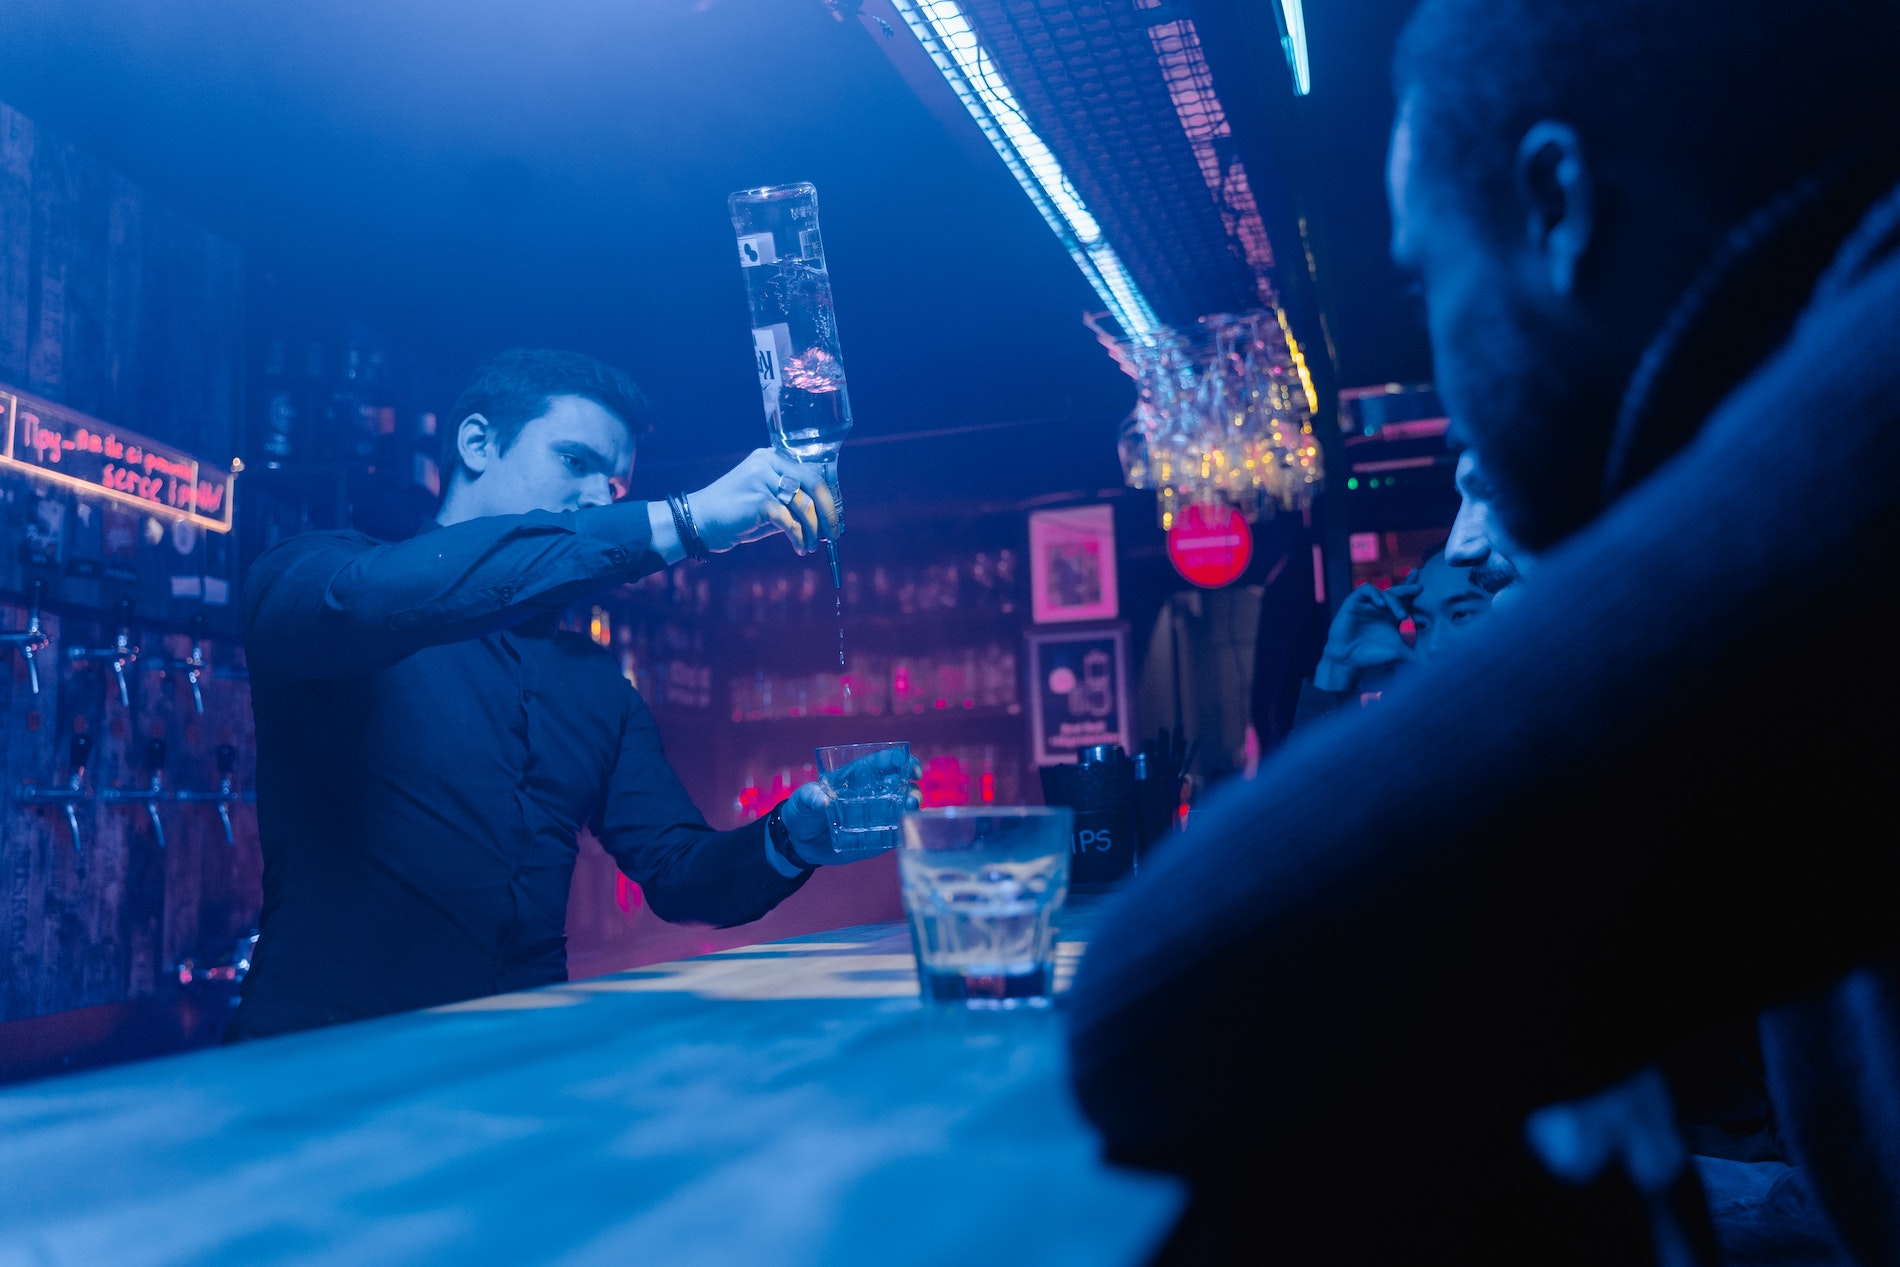
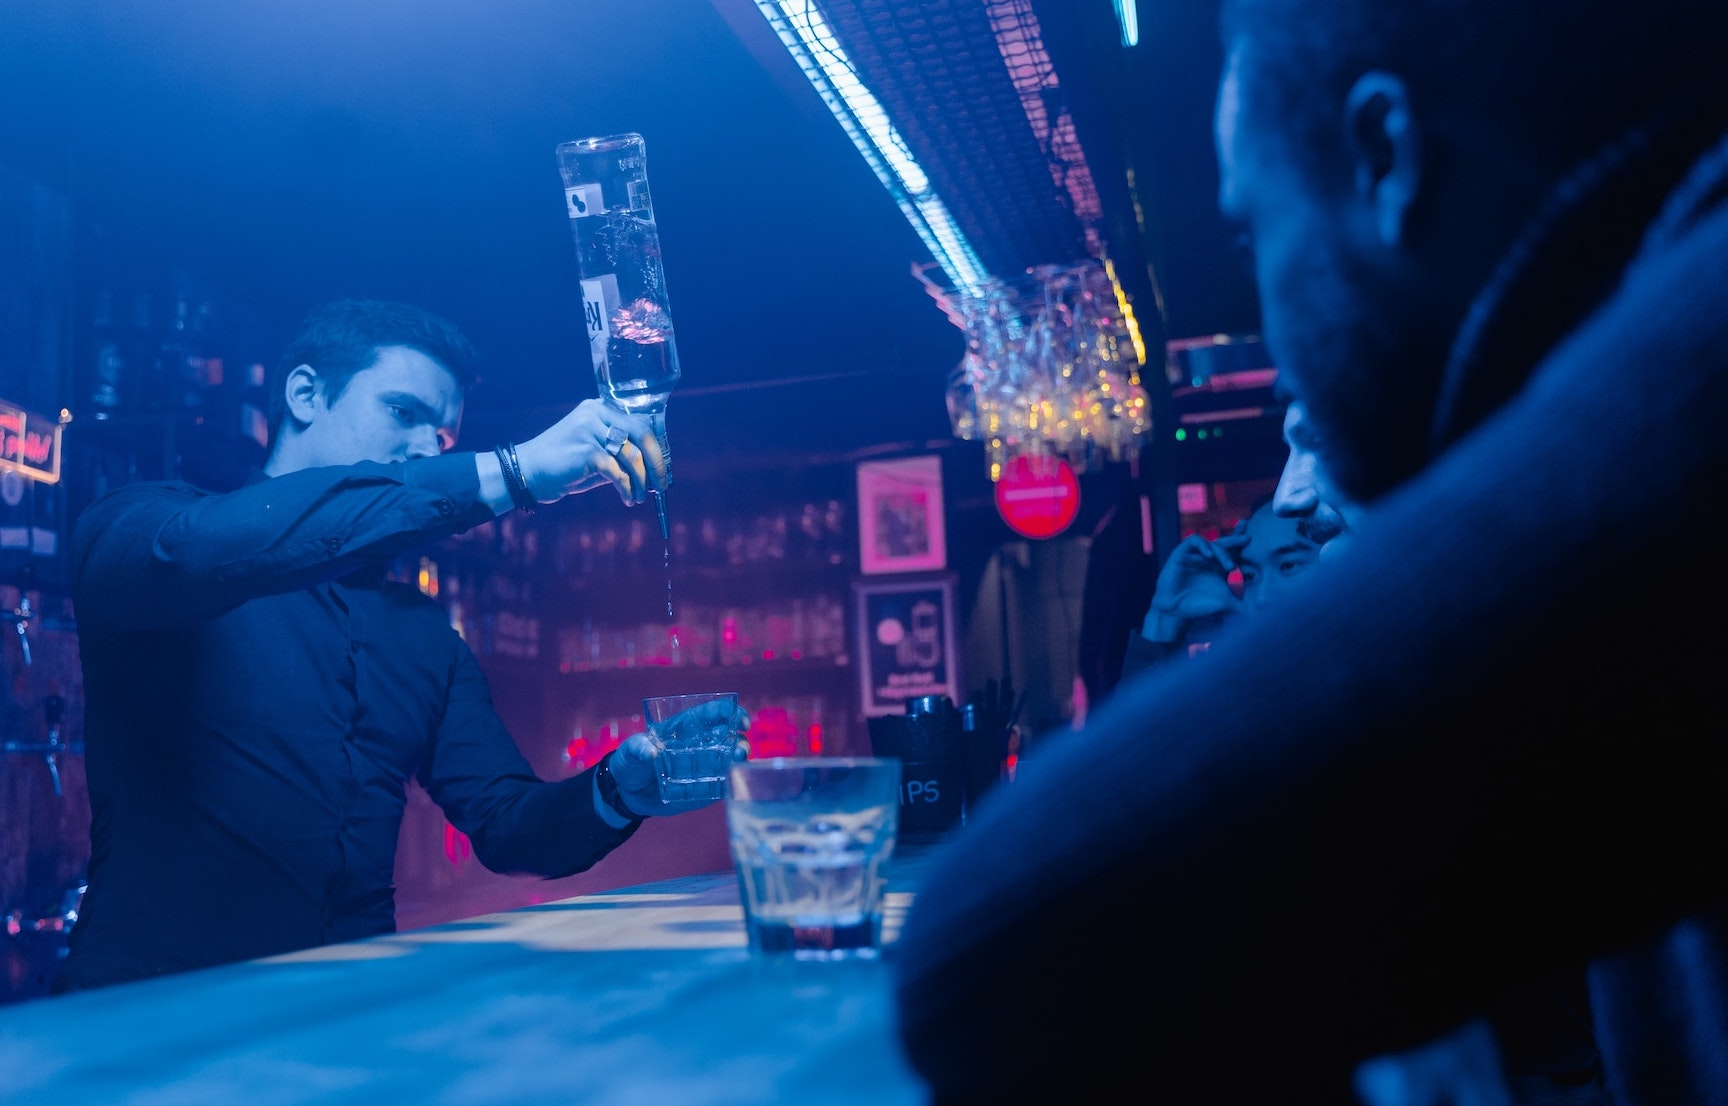
add initial style to nav links and import google fonts for header and text

diff --git a/assets/css/style.css b/assets/css/style.css
@@ -1,11 +1,24 @@
-@import url('https://fonts.googleapis.com/css2?family=Comfortaa:wght@300&display=swap');
+@import url('https://fonts.googleapis.com/css2?family=Comfortaa:wght@300&family=Proza+Libre&display=swap');
 
-/* header styling */
+/* header and nav styling */
 
 header h1 {
-    font-family: 'Comfortaa', sans-serif;
+    font-family: Comfortaa, sans-serif;
     font-size: 300%;
     color: #385c76
+}
+
+#navigation {
+    font-size: 120%;
+    color: #385c76
+}
+
+#navigation li {
+    font-family:'Proza Libre', sans-serif;
+    float: right;
+    list-style-type: none;
+    margin-right: 20px;
+    letter-spacing: 2px;
 }
 
 /* hero image and styling */
@@ -13,5 +26,7 @@ header h1 {
 #hero-image {
     height: 600px;
     width: 100%;
-    background: url(../images/pouring_at_the_bar.jpg) no-repeat center center;
+    background: url(../images/pouring_at_the_bar.jpg) no-repeat center left;
+    margin: 0 auto;
+    float: left;
 }

diff --git a/index.html b/index.html
@@ -13,11 +13,11 @@
     <header>
         <h1> <i class="fa-solid fa-kiwi-bird"></i> Kiwi Cocktail Bar</h1>
         <nav>
-            <ul>
-                <li>About Us</li>
-                <li>Menu</li>
-                <li>Gallery</li>
+            <ul id="navigation">
                 <li>Sign-Up</li>
+                <li>Gallery</li>
+                <li>Menu</li>
+                <li>About Us</li>
             </ul>
         </nav>
     </header>
@@ -31,6 +31,6 @@
 
     <!-- font awesome script -->
     <script src="https://kit.fontawesome.com/d05202a75f.js" crossorigin="anonymous"></script>
-    
+
 </body>
 </html>
